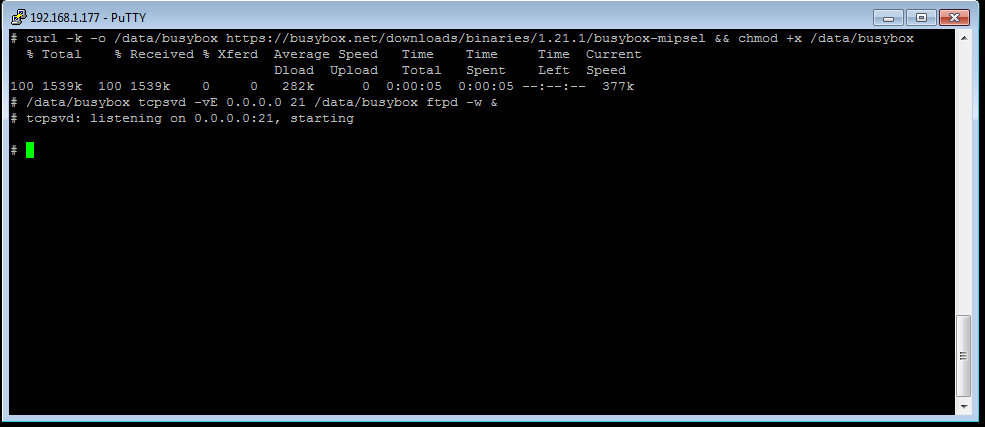
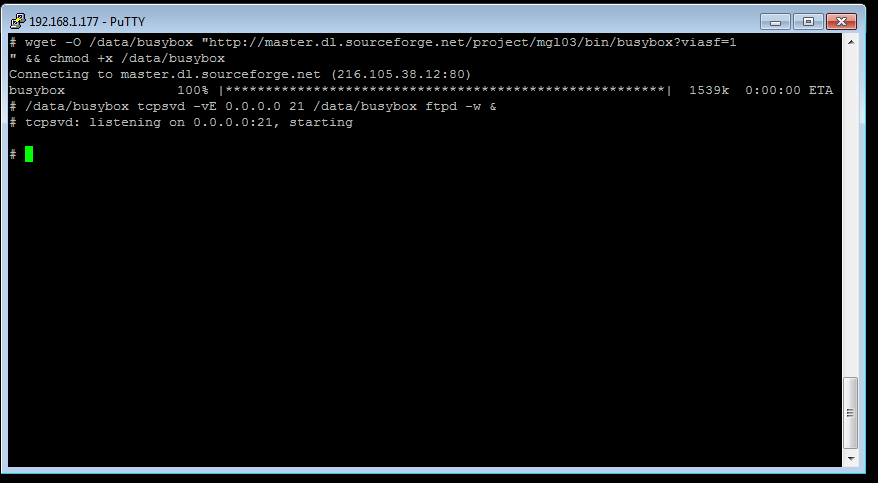
update README.md fw and screenshots

Changed region(s): [[0.0, 0.0, 1.0, 1.0]]

diff --git a/firmware/README.md b/firmware/README.md
@@ -10,40 +10,11 @@ Login - "admin", no password.
 
 # The easy way
 Go to telnet session on gateway and run commands:
-#### main command
 ```sh
-curl -s -k -L -o /tmp/update.sh https://github.com/zvldz/mgl03_fw/raw/master/firmware/mgl03_update.sh && sh /tmp/update.sh
-```
-
-If there is no curl in firmware, command will run with error:
-```
--sh: curl: not found
-```
-To download curl, run following commands:
-```sh
-wget -O /tmp/wget http://pkg.musl.cc/wget/mipsel-linux-musln32/bin/wget && chmod +x /tmp/wget
-/tmp/wget -O /tmp/curl http://mipsel.vacuumz.info/files/curl && chmod +x /tmp/curl && rm -rf /tmp/wget
+wget -O /tmp/curl "http://master.dl.sourceforge.net/project/mgl03/bin/curl?viasf=1" && chmod +x /tmp/curl
 export PATH="$PATH:/tmp"
+curl -s -k -L -o /tmp/update.sh https://raw.githubusercontent.com/zvldz/mgl03_fw/main/firmware/mgl03_update.sh && sh /tmp/update.sh
 ```
-The 'pkg.musl.cc' site may not work.
-Then there will be an error:
-```
-Resolving pkg.musl.cc (pkg.musl.cc)... 104.232.42.245
-Connecting to pkg.musl.cc (pkg.musl.cc)|104.232.42.245|:80... failed: Connection refused.
-```
-In this case, try command:
-```
-printf 'GET /files/curl HTTP/1.1\r\nHost: mipsel-ssl.vacuumz.info\r\nUser-Agent: Wget/1.20.3\r\nConnection: close\r\n\r\n' | openssl s_client -quiet -tls1_1 -connect mipsel-ssl.vacuumz.info:443 -servername mipsel-ssl.vacuumz.info | sed '/alt-svc.*/d' | tail -n +19 > /tmp/curl && chmod +x /tmp/curl
-export PATH="$PATH:/tmp"
-```
-or
-```
-wget http://pkg.simple-ha.ru/mipsel/curl -O /tmp/curl && chmod +x /tmp/curl
-export PATH="$PATH:/tmp"
-```
-[Then run first command again.](#main-command)
-
-
 You will need to select firmware version.
 
 If you are using the [XiaomiGateway3](https://github.com/AlexxIT/XiaomiGateway3) component.
@@ -78,7 +49,7 @@ command: ftp
 ### Manual mode
 To start the ftp-server you need to log into gateway via telnet and execute the commands:
 ```sh
-curl -k -o /data/busybox https://busybox.net/downloads/binaries/1.21.1/busybox-mipsel && chmod +x /data/busybox
+wget -O /data/busybox "http://master.dl.sourceforge.net/project/mgl03/bin/busybox?viasf=1" && chmod +x /data/busybox
 /data/busybox tcpsvd -vE 0.0.0.0 21 /data/busybox ftpd -w &
 ```
 
@@ -90,33 +61,24 @@ Download modified firmware from [firmware folder](https://github.com/serrj-sv/lu
 If you are using the [XiaomiGateway3](https://github.com/AlexxIT/XiaomiGateway3) component.
 For recommended firmware, see [https://github.com/AlexxIT/XiaomiGateway3/wiki](https://github.com/AlexxIT/XiaomiGateway3/wiki).
 
-For example [mgl03_1.4.7_0065_mod20201211.zip](https://github.com/serrj-sv/lumi.gateway.mgl03/blob/main/firmware/custom/mgl03_1.4.7_0065_mod20201211/mgl03_1.4.7_0065_mod20201211.zip).
+For example [mgl03_1.4.6_0012_mod20210308.zip](https://github.com/zvldz/mgl03_fw/raw/main/firmware/custom/mgl03_1.4.6_0012_mod20210308/mgl03_1.4.6_0012_mod20210308.zip).
 
-Unzip archive mgl03_1.4.7_0065_mod20201211.zip.
+Unzip archive mgl03_1.4.6_0012_mod20210308.zip.
 
 You need ftp client like "FileZilla/WinSCP/Total Commander" etc.
 
-Copy files linux_1.4.7_0065.bin and root_1.4.7_0065_mod20201211.bin to gateway folder /tmp.
-
-Copy file full_ble_1.4.7_0065.gbl with filename full.gbl to /data/firmware (directory /data/firmware needs to be created).
-In firmware 1.4.6 use /data path.
+Copy files linux_1.4.6_0012.bin, root_1.4.6_0012_mod20210308.bin and full_ble_1.4.6_0012.gbl to gateway folder /tmp.
 
 ## Starting update
 Go back to telnet session on gateway and run commands:
 ```sh
-fw_update /tmp/linux_1.4.7_0065.bin
-fw_update /tmp/root_1.4.7_0065_mod20201211.bin
+fw_update /tmp/linux_1.4.6_0012.bin
+fw_update /tmp/root_1.4.6_0012_mod20210308.bin
+run_ble_dfu.sh /dev/ttyS1 /tmp/firmware/full_ble_1.4.6_0012.gbl 123 1
 reboot
 ```
-
 <img src="../media/screenshot_telnet4.png" width="677">
 
-After first reboot, gateway will reboot again to update ble firmware.
-If you want to make sure if ble firmware has been updated, check for /data/firmware/full.gbl file, it should not exist.
-If not, you can update the BLE firmware manually.
-```sh
-run_ble_dfu.sh /dev/ttyS1 /data/firmware/full.gbl 123 1
-```
 
 All copied files will be deleted automatically.
 
